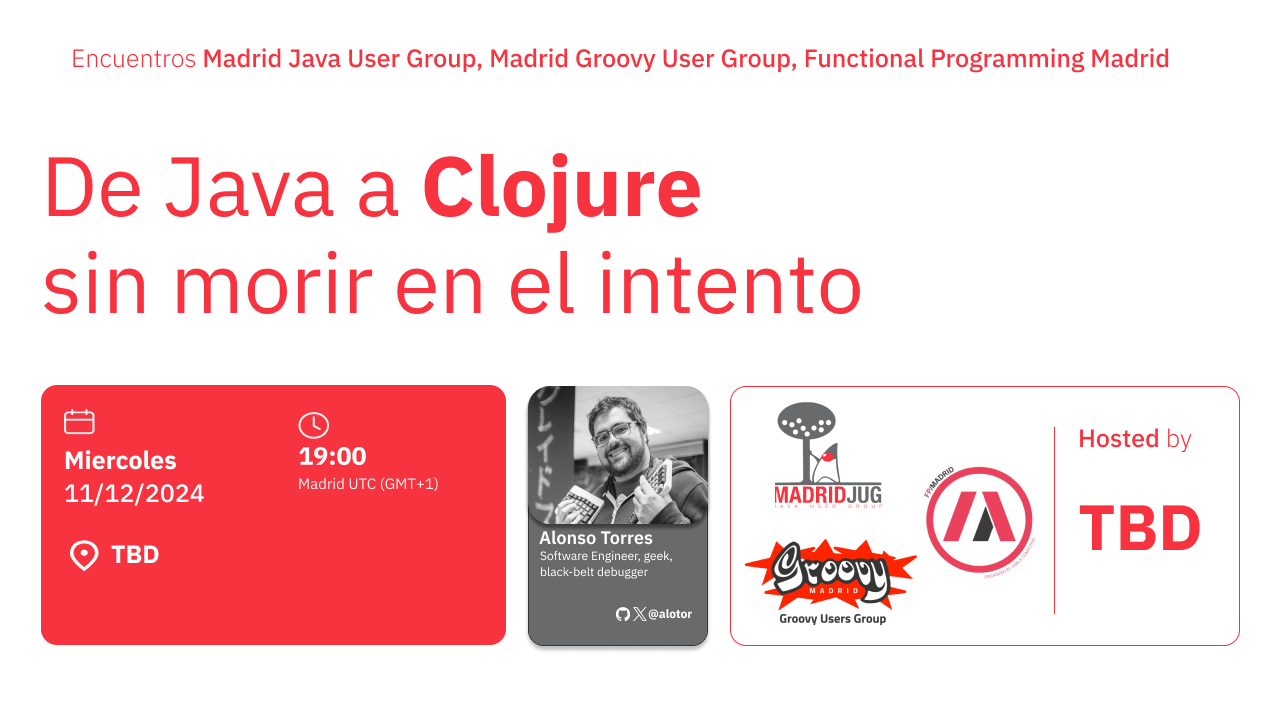
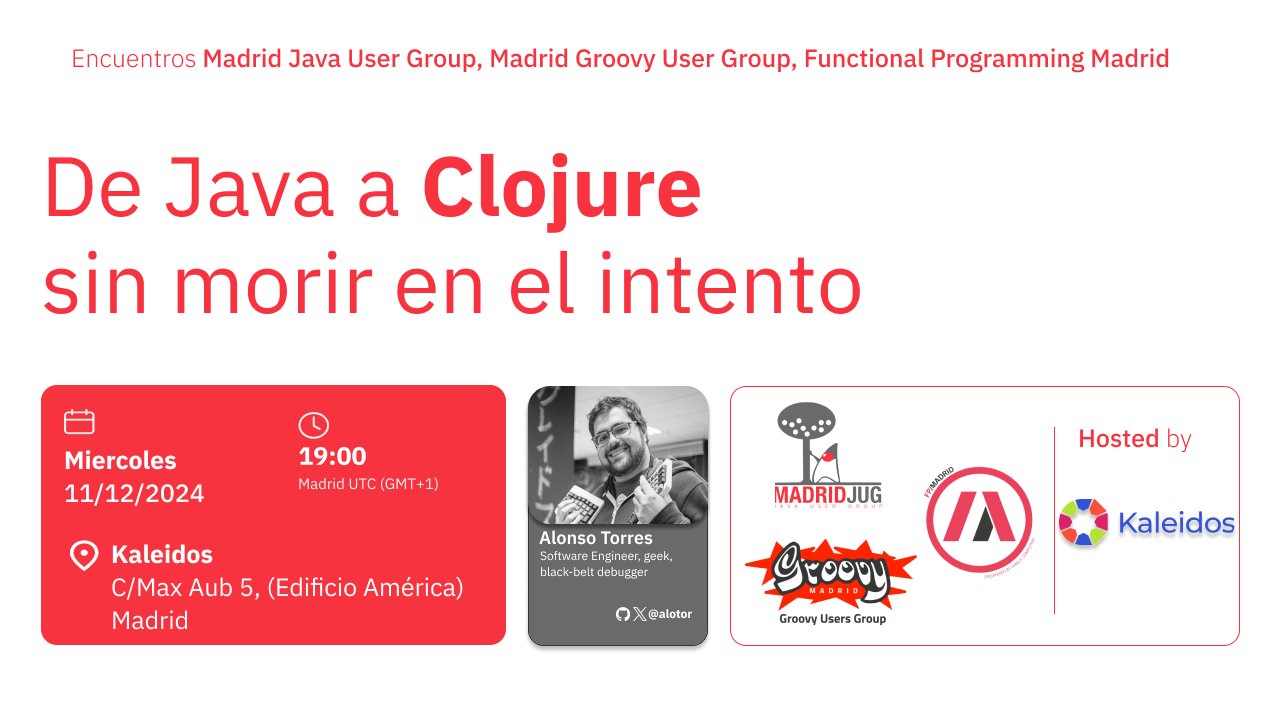
Updated Clojure talk info

Changed region(s): [[0.0625, 0.7333, 0.375, 0.825], [0.8125, 0.6722, 0.9688, 0.7639], [0.0938, 0.8556, 0.1562, 0.8861]]

diff --git a/_pages/index.html b/_pages/index.html
@@ -59,7 +59,9 @@ comming-up-row-one:
       image-right: true
     - header: "De Java a Clojure sin morir en el intento"
       date: 2024-12-11
-      excerpt: "Alonso Torres nos llevará en esta charla de la mano para adentrarnos en el mundo de Clojure sin miedos.</br><br/>Pronto completaremos el abstract de la charla."
+      excerpt: "Clojure es un excelente lenguaje de programación, pero intimida a muchos desarrolladores por su aparente extrañeza y complejidad. Cuando esto está muy lejos de la realidad.<br/>
+      En esta charla voy a hacer un recorrido por las principales fortalezas de Clojure comparado con Java. Vamos a ver como siendo un lenguaje de la JVM podemos utilizarlo incluso en nuestras aplicaciones Java (u otros lenguajes de la JVM) y por último como podemos acercarnos mejor a este lenguaje.<br/>
+      Después de esta charla quizás no vayas a cambiar de lenguaje favorito pero espero que al menos le pierdas el miedo a Clojure."
       #btn-url: "https://www.meetup.com/madridjug/events/304107149/"
       #btn-class: "info"
       #btn-label: "Registro"
